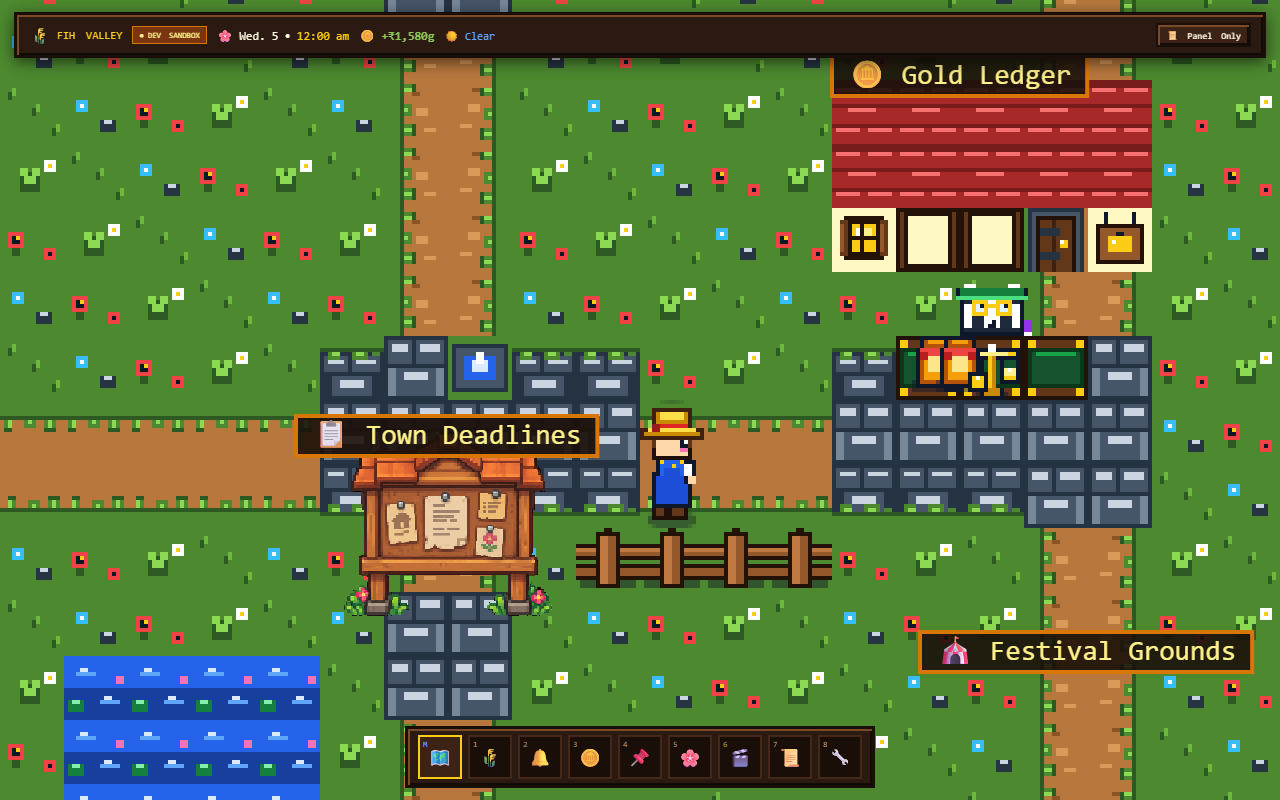
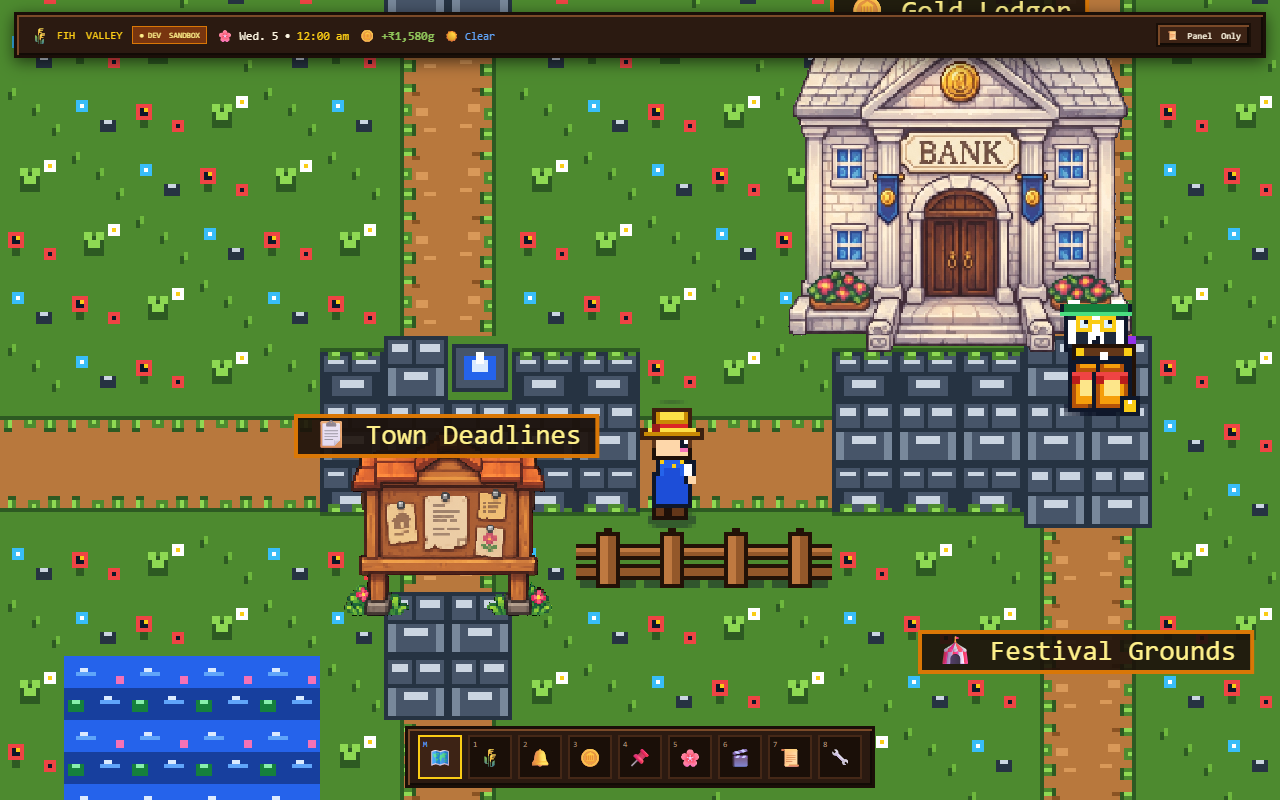
feat(overworld): replace ledger hut with custom pixel art bank model

Changed region(s): [[0.5938, 0.0625, 0.9062, 0.5312], [0.625, 0.0, 0.875, 0.0312]]

diff --git a/components/world/PixelWorldCanvas.jsx b/components/world/PixelWorldCanvas.jsx
@@ -57,11 +57,11 @@ export const BUILDING_HITBOXES = [
     doorX: 26 * TILE_SIZE,
     doorY: 11 * TILE_SIZE,
     minX: 23 * TILE_SIZE,
-    minY: 7 * TILE_SIZE,
+    minY: 6 * TILE_SIZE,
     maxX: 29 * TILE_SIZE,
     maxY: 12 * TILE_SIZE,
     bannerX: 26 * TILE_SIZE,
-    bannerY: 7 * TILE_SIZE - 6,
+    bannerY: 6 * TILE_SIZE - 6,
   },
   {
     id: 'deadlines',
@@ -278,8 +278,8 @@ export function isWalkable(wx, wy) {
     return false;
   }
 
-  // 5. Chapter 2: The Ledger Hut (tx: 24-28, ty: 7-9) and Bram's Counter (tx: 25-27, ty: 10-11)
-  if ((tx >= 24 && tx <= 28 && ty >= 7 && ty <= 9) || (tx >= 25 && tx <= 27 && ty >= 10 && ty <= 11)) {
+  // 5. Chapter 2: The Ledger / Bank (tx: 24-28, ty: 6-11)
+  if (tx >= 24 && tx <= 28 && ty >= 6 && ty <= 11) {
     return false;
   }
 
@@ -426,7 +426,7 @@ export default function PixelWorldCanvas({
   const lastReportedNearbyRef = useRef(undefined);
 
   const stateRef = useRef({
-    images: { tileset: null, pip: null, bram: null, farmhouse: null, notice_board: null },
+    images: { tileset: null, pip: null, bram: null, farmhouse: null, notice_board: null, bank: null },
     loaded: false,
     camera: { x: 18 * 16, y: 12 * 16 }, // Center at Village Square on spawn
     targetCamera: { x: 18 * 16, y: 12 * 16 },
@@ -454,6 +454,7 @@ export default function PixelWorldCanvas({
       { key: 'bram', src: '/assets/characters/bram_factor.png' },
       { key: 'farmhouse', src: '/assets/buildings/farmhouse.png' },
       { key: 'notice_board', src: '/assets/buildings/notice_board.png' },
+      { key: 'bank', src: '/assets/buildings/bank.png' },
     ];
 
     let count = 0;
@@ -904,38 +905,52 @@ export default function PixelWorldCanvas({
         },
       });
 
-      // ── 2. Chapter 2: The Ledger Hut (x: 24, y: 7) ──
+      // ── 2. Chapter 2: The Ledger Hut / Bank (x: 26, y: 7) ──
       renderables.push({
-        y: 10 * TILE_SIZE,
+        y: 11 * TILE_SIZE + 4,
         render: () => {
-          const hx = 24 * TILE_SIZE;
-          const hy = 7 * TILE_SIZE;
-          for (let rx = 0; rx < 5; rx++) {
-            ctx.drawImage(tileset, 0, 2 * TILE_SIZE, TILE_SIZE, TILE_SIZE, hx + rx * TILE_SIZE, hy, TILE_SIZE, TILE_SIZE);
-            ctx.drawImage(tileset, 0, 2 * TILE_SIZE, TILE_SIZE, TILE_SIZE, hx + rx * TILE_SIZE, hy + TILE_SIZE, TILE_SIZE, TILE_SIZE);
-            if (rx === 3) {
-              ctx.drawImage(tileset, 3 * TILE_SIZE, 2 * TILE_SIZE, TILE_SIZE, TILE_SIZE, hx + rx * TILE_SIZE, hy + 2 * TILE_SIZE, TILE_SIZE, TILE_SIZE);
-            } else if (rx === 0 || rx === 4) {
-              ctx.drawImage(tileset, 2 * TILE_SIZE, 2 * TILE_SIZE, TILE_SIZE, TILE_SIZE, hx + rx * TILE_SIZE, hy + 2 * TILE_SIZE, TILE_SIZE, TILE_SIZE);
-            } else {
-              ctx.drawImage(tileset, 1 * TILE_SIZE, 2 * TILE_SIZE, TILE_SIZE, TILE_SIZE, hx + rx * TILE_SIZE, hy + 2 * TILE_SIZE, TILE_SIZE, TILE_SIZE);
+          const bankImg = state.images.bank;
+          if (bankImg) {
+            const bW = 86;
+            const bH = 86;
+            const bX = 26 * TILE_SIZE - bW / 2; // 416 - 43 = 373px
+            const bY = 11 * TILE_SIZE + 4 - bH; // 176 + 4 - 86 = 94px
+            ctx.drawImage(bankImg, bX, bY, bW, bH);
+          } else {
+            const hx = 24 * TILE_SIZE;
+            const hy = 7 * TILE_SIZE;
+            for (let rx = 0; rx < 5; rx++) {
+              ctx.drawImage(tileset, 0, 2 * TILE_SIZE, TILE_SIZE, TILE_SIZE, hx + rx * TILE_SIZE, hy, TILE_SIZE, TILE_SIZE);
+              ctx.drawImage(tileset, 0, 2 * TILE_SIZE, TILE_SIZE, TILE_SIZE, hx + rx * TILE_SIZE, hy + TILE_SIZE, TILE_SIZE, TILE_SIZE);
+              if (rx === 3) {
+                ctx.drawImage(tileset, 3 * TILE_SIZE, 2 * TILE_SIZE, TILE_SIZE, TILE_SIZE, hx + rx * TILE_SIZE, hy + 2 * TILE_SIZE, TILE_SIZE, TILE_SIZE);
+              } else if (rx === 0 || rx === 4) {
+                ctx.drawImage(tileset, 2 * TILE_SIZE, 2 * TILE_SIZE, TILE_SIZE, TILE_SIZE, hx + rx * TILE_SIZE, hy + 2 * TILE_SIZE, TILE_SIZE, TILE_SIZE);
+              } else {
+                ctx.drawImage(tileset, 1 * TILE_SIZE, 2 * TILE_SIZE, TILE_SIZE, TILE_SIZE, hx + rx * TILE_SIZE, hy + 2 * TILE_SIZE, TILE_SIZE, TILE_SIZE);
+              }
             }
+            // Hanging Wooden Shop Signboard ("LEDGER")
+            ctx.drawImage(tileset, 4 * TILE_SIZE, 2 * TILE_SIZE, TILE_SIZE, TILE_SIZE, hx + 4 * TILE_SIZE, hy + 2 * TILE_SIZE, TILE_SIZE, TILE_SIZE);
+            ctx.fillStyle = 'rgba(15, 23, 42, 0.35)';
+            ctx.fillRect(hx, hy + 2 * TILE_SIZE, 5 * TILE_SIZE, 2);
           }
-          // Hanging Wooden Shop Signboard ("LEDGER")
-          ctx.drawImage(tileset, 4 * TILE_SIZE, 2 * TILE_SIZE, TILE_SIZE, TILE_SIZE, hx + 4 * TILE_SIZE, hy + 2 * TILE_SIZE, TILE_SIZE, TILE_SIZE);
-          ctx.fillStyle = 'rgba(15, 23, 42, 0.35)';
-          ctx.fillRect(hx, hy + 2 * TILE_SIZE, 5 * TILE_SIZE, 2);
         },
       });
 
-      // Bram the Badger Factor (Behind the counter at x: 26, y: 10)
+      // Bram the Badger Factor (at the Bank Entrance apron)
       renderables.push({
-        y: 11 * TILE_SIZE + 2,
+        y: 11 * TILE_SIZE + 6,
         render: () => {
           const bramImg = state.images.bram;
           if (bramImg) {
             const frameCol = state.bram.talking ? 2 + state.bram.frame : state.bram.frame;
-            ctx.drawImage(bramImg, frameCol * 24, 0, 24, 32, 26 * TILE_SIZE - 4, 10 * TILE_SIZE, 24, 32);
+            if (state.images.bank) {
+              // Bram stands proudly beside the entrance at the right balustrade
+              ctx.drawImage(bramImg, frameCol * 24, 0, 24, 32, 28 * TILE_SIZE - 10, 10 * TILE_SIZE + 4, 24, 32);
+            } else {
+              ctx.drawImage(bramImg, frameCol * 24, 0, 24, 32, 26 * TILE_SIZE - 4, 10 * TILE_SIZE, 24, 32);
+            }
           }
         },
       });
@@ -944,27 +959,51 @@ export default function PixelWorldCanvas({
       renderables.push({
         y: 11 * TILE_SIZE + 8,
         render: () => {
-          const cx = 25 * TILE_SIZE;
-          const cy = 11 * TILE_SIZE;
-          ctx.drawImage(tileset, 5 * TILE_SIZE, 1 * TILE_SIZE, TILE_SIZE, TILE_SIZE, cx, cy, TILE_SIZE, TILE_SIZE);
-          ctx.drawImage(tileset, 5 * TILE_SIZE, 1 * TILE_SIZE, TILE_SIZE, TILE_SIZE, cx + TILE_SIZE, cy, TILE_SIZE, TILE_SIZE);
-          ctx.drawImage(tileset, 5 * TILE_SIZE, 1 * TILE_SIZE, TILE_SIZE, TILE_SIZE, cx + 2 * TILE_SIZE, cy, TILE_SIZE, TILE_SIZE);
+          if (state.images.bank) {
+            // Neat 1-tile polished oak teller stand with brass balance scales & coin sacks beside Bram
+            const px = 28 * TILE_SIZE - 4;
+            const py = 11 * TILE_SIZE + 2;
+            ctx.drawImage(tileset, 5 * TILE_SIZE, 1 * TILE_SIZE, TILE_SIZE, TILE_SIZE, px, py, TILE_SIZE, TILE_SIZE);
 
-          // Brass Balance Scale
-          ctx.save();
-          ctx.translate(cx + TILE_SIZE + 8, cy + 2);
-          if (state.scaleTilt !== 0) {
-            ctx.rotate((state.scaleTilt * 6 * Math.PI) / 180);
-          }
-          ctx.drawImage(tileset, 6 * TILE_SIZE, 1 * TILE_SIZE, TILE_SIZE, TILE_SIZE, -8, -8, TILE_SIZE, TILE_SIZE);
-          ctx.restore();
+            // Brass Balance Scale
+            ctx.save();
+            ctx.translate(px + 8, py + 2);
+            if (state.scaleTilt !== 0) {
+              ctx.rotate((state.scaleTilt * 6 * Math.PI) / 180);
+            }
+            ctx.drawImage(tileset, 6 * TILE_SIZE, 1 * TILE_SIZE, TILE_SIZE, TILE_SIZE, -8, -8, TILE_SIZE, TILE_SIZE);
+            ctx.restore();
 
-          // Bulging Golden Coin Sacks
-          const sackCount = Math.max(1, state.activeDebtsCount);
-          for (let s = 0; s < sackCount; s++) {
-            const sackX = cx + 2 + (s % 3) * 6;
-            const sackY = cy - 2 + (s > 2 ? -4 : 0);
-            ctx.drawImage(tileset, 7 * TILE_SIZE, 1 * TILE_SIZE, TILE_SIZE, TILE_SIZE, sackX, sackY, TILE_SIZE, TILE_SIZE);
+            // Bulging Golden Coin Sacks
+            const sackCount = Math.max(1, state.activeDebtsCount);
+            for (let s = 0; s < sackCount; s++) {
+              const sackX = px - 4 + (s % 2) * 5;
+              const sackY = py + 2 + Math.floor(s / 2) * 2;
+              ctx.drawImage(tileset, 7 * TILE_SIZE, 1 * TILE_SIZE, TILE_SIZE, TILE_SIZE, sackX, sackY, TILE_SIZE, TILE_SIZE);
+            }
+          } else {
+            const cx = 25 * TILE_SIZE;
+            const cy = 11 * TILE_SIZE;
+            ctx.drawImage(tileset, 5 * TILE_SIZE, 1 * TILE_SIZE, TILE_SIZE, TILE_SIZE, cx, cy, TILE_SIZE, TILE_SIZE);
+            ctx.drawImage(tileset, 5 * TILE_SIZE, 1 * TILE_SIZE, TILE_SIZE, TILE_SIZE, cx + TILE_SIZE, cy, TILE_SIZE, TILE_SIZE);
+            ctx.drawImage(tileset, 5 * TILE_SIZE, 1 * TILE_SIZE, TILE_SIZE, TILE_SIZE, cx + 2 * TILE_SIZE, cy, TILE_SIZE, TILE_SIZE);
+
+            // Brass Balance Scale
+            ctx.save();
+            ctx.translate(cx + TILE_SIZE + 8, cy + 2);
+            if (state.scaleTilt !== 0) {
+              ctx.rotate((state.scaleTilt * 6 * Math.PI) / 180);
+            }
+            ctx.drawImage(tileset, 6 * TILE_SIZE, 1 * TILE_SIZE, TILE_SIZE, TILE_SIZE, -8, -8, TILE_SIZE, TILE_SIZE);
+            ctx.restore();
+
+            // Bulging Golden Coin Sacks
+            const sackCount = Math.max(1, state.activeDebtsCount);
+            for (let s = 0; s < sackCount; s++) {
+              const sackX = cx + 2 + (s % 3) * 6;
+              const sackY = cy - 2 + (s > 2 ? -4 : 0);
+              ctx.drawImage(tileset, 7 * TILE_SIZE, 1 * TILE_SIZE, TILE_SIZE, TILE_SIZE, sackX, sackY, TILE_SIZE, TILE_SIZE);
+            }
           }
         },
       });

diff --git a/tests/worldEngine.test.js b/tests/worldEngine.test.js
@@ -168,6 +168,21 @@ describe('Continuous Village Chapter Anchors (Addendum Section 3)', () => {
     expect(hitBoard).not.toBeNull();
     expect(hitBoard.id).toBe('deadlines');
     expect(hitBoard.name).toBe('The Notice Board');
+
+    // Clicking on the new Bank (at tx: 26, ty: 7) hits The Ledger Hut
+    const hitBank = getHitBuilding(26 * 16, 7 * 16);
+    expect(hitBank).not.toBeNull();
+    expect(hitBank.id).toBe('debts');
+    expect(hitBank.name).toBe('The Ledger Hut');
+  });
+
+  it('detects entrance proximity for the custom Bank / Ledger', async () => {
+    const { getNearbyBuilding } = await import('../components/world/PixelWorldCanvas');
+
+    // Standing outside the front steps at (tx: 26, ty: 12) detects The Ledger Hut within range
+    const nearby = getNearbyBuilding(26 * 16, 12 * 16, 36);
+    expect(nearby).not.toBeNull();
+    expect(nearby.id).toBe('debts');
   });
 
   it('detects viewing pad proximity for the custom Notice Board', async () => {

diff --git a/public/assets/ATLAS.md b/public/assets/ATLAS.md
@@ -113,3 +113,9 @@ This document lists every sprite, frame layout, and coordinate in `/public/asset
 - **World Rendering:** Scaled to 52×46 world px (placed at world coordinates x: 262, y: 200)
 - **Features:** Timber support posts with stone footing pedestals and pink flower shrubs, terracotta shingled canopy roof, multi-page pinned community notices (house sketch parchment, central town manifest with torn lower hem, list docket, botanical flower illustration).
 - **Interactive Role:** Chapter 4: The Notice Board (Town Deadlines). Viewing pad at world position `(18 * 16, 16 * 16)`.
+
+### The Ledger Bank (`bank.png`)
+- **Source:** User Custom Sprite (Cropped to 862×862 px, transparent alpha background)
+- **World Rendering:** Scaled to 86×86 world px (placed at world coordinates x: 373, y: 94)
+- **Features:** Neoclassical stone portico with pediment, gold coin medallion, carved "BANK" lintel, four fluted columns, twin royal blue banners with gold coin medallions, double arched wooden doors with brass rings, tiered stone steps with flanking carved scroll balustrades, and vibrant red and gold flower planter boxes.
+- **Interactive Role:** Chapter 2: The Ledger Hut (Gold Ledger & Tab Inscriptions / Debts). Front doorstep at world position `(26 * 16, 11 * 16)`, with Bram the Badger Factor standing beside the right balustrade alongside his oak teller stand, brass balance scales, and gold coin sacks.
